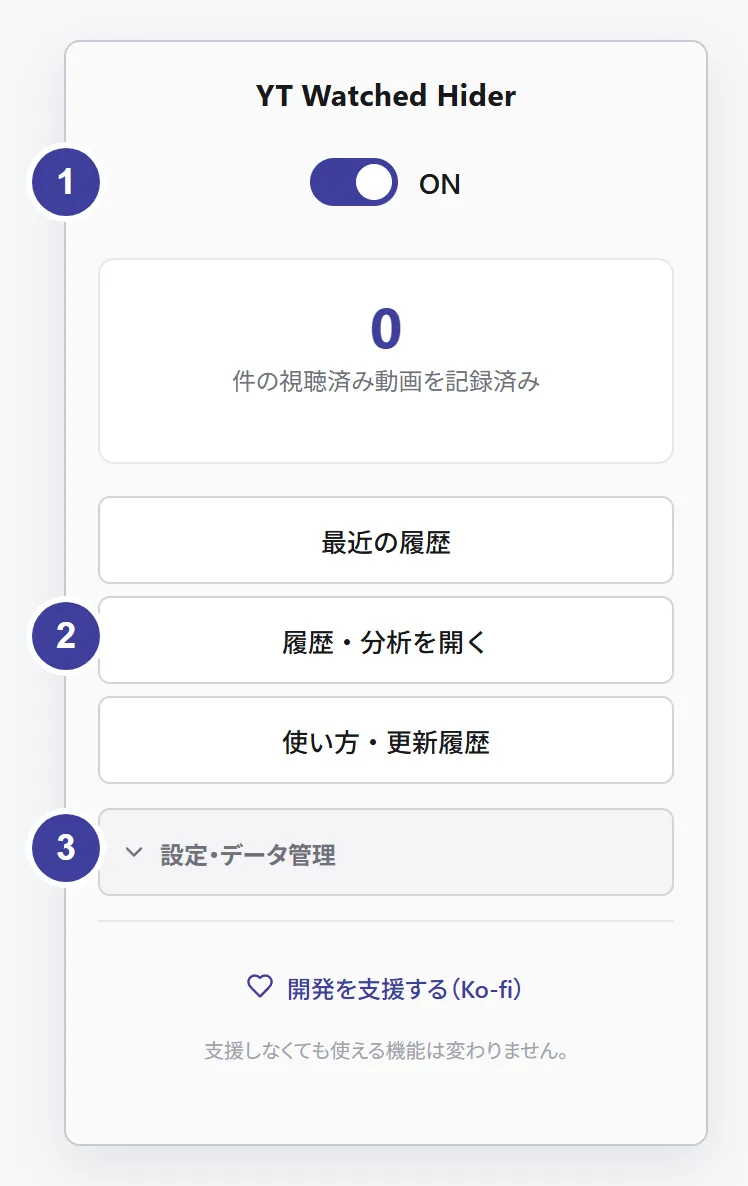
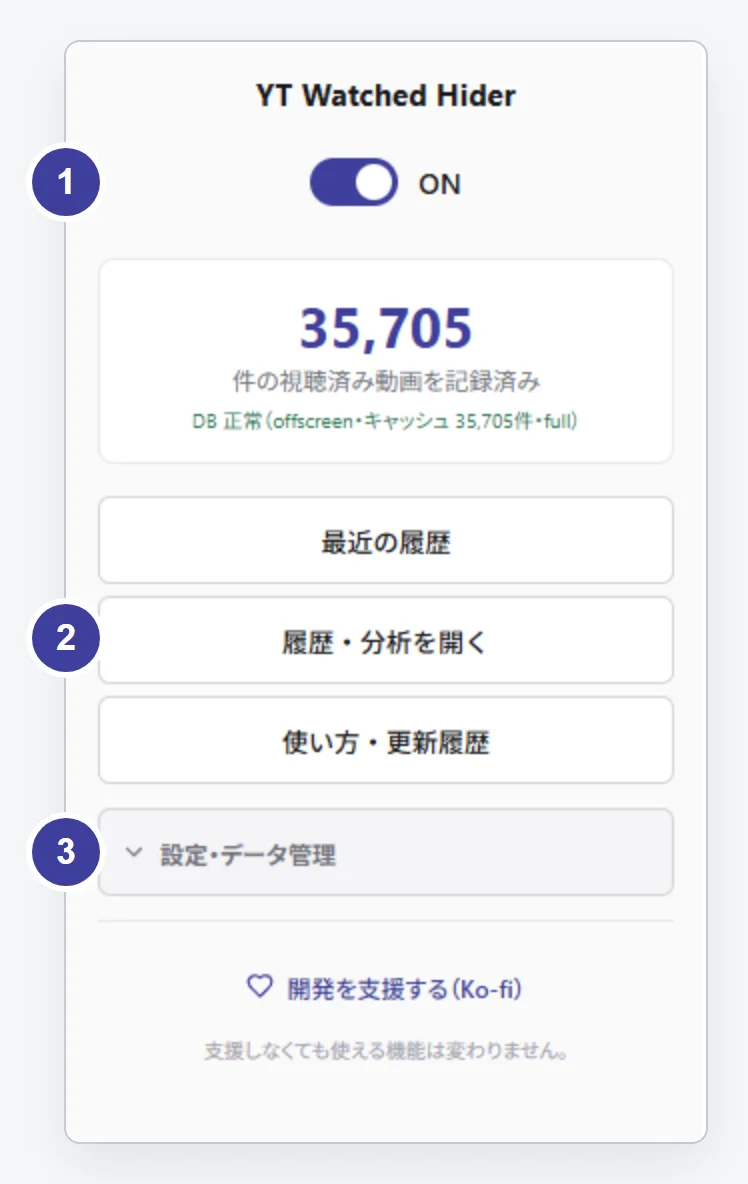
Add share cards and use a real popup in the Japanese guide
Open Graph and X card tags (1200x630 images per language) plus canonical
links on the top and guide pages. The Japanese guide now shows the
author's actual popup instead of an empty first-run state.

diff --git a/docs/guide.html b/docs/guide.html
@@ -4,7 +4,8 @@
   <meta charset="UTF-8">
   <meta name="viewport" content="width=device-width, initial-scale=1">
   <meta name="description" content="YouTube Watched Hider の導入と基本の使い方。対象画面、視聴済みの判定と95％設定、非表示の切り替え、履歴・分析、JSONバックアップを案内します。">
-  <title>基本の使い方 — YouTube Watched Hider</title>
+  <meta property="og:type" content="website"/><meta property="og:site_name" content="YouTube Watched Hider"/><meta property="og:title" content="基本の使い方 — YouTube Watched Hider"/><meta property="og:description" content="導入、表示の切り替え、履歴・分析、バックアップの基本操作。"/><meta property="og:url" content="https://sasakisrole.github.io/youtube-watched-hider/guide.html"/><meta property="og:image" content="https://sasakisrole.github.io/youtube-watched-hider/assets/og-ja.jpg"/><meta property="og:image:width" content="1200"/><meta property="og:image:height" content="630"/><meta property="og:image:alt" content="観た動画を隠して、次を探す。YouTube Watched Hider"/><meta property="og:locale" content="ja_JP"/><meta name="twitter:card" content="summary_large_image"/><link rel="canonical" href="https://sasakisrole.github.io/youtube-watched-hider/guide.html"/>
+<title>基本の使い方 — YouTube Watched Hider</title>
   <link rel="icon" href="icon128.png" type="image/png">
   <link rel="stylesheet" href="site.css">
 </head>
@@ -15,7 +16,7 @@
     <header class="guide-header"><p class="eyebrow">YouTube Watched Hider</p><h1>基本の使い方</h1><p>拡張内の「使い方・更新履歴」をもとに、<br class="wide-break">はじめて使うときの操作をまとめました。</p></header>
     <nav class="guide-nav" aria-label="使い方の目次"><a href="#first-use">導入する</a><a href="#visibility">表示を調整する</a><a href="#history">履歴・分析</a><a href="#backup">バックアップ</a><a href="#in-extension">拡張内のガイド</a></nav>
     <section id="first-use" class="guide-section"><h2>1. 導入して、YouTube を開く</h2><ol><li>パソコンの Chrome で、下のリンクから Chrome ウェブストアを開きます。</li><li>拡張名が <span class="ui-name">YouTube Watched Hider</span>、提供元が <span class="ui-name">sasaki.s.role</span> であることと、表示される権限を確認して追加します。</li><li>YouTube を開きます。すでに開いていたページは再読み込みしてください。</li><li>通常どおり動画を見ます。拡張が視聴済みと判定・記録した動画が、次の一覧から隠れます。</li></ol><figure class="guide-figure"><img src="assets/guide-compare.webp" width="720" height="361" alt="YWH なしでは視聴済み3本を含む6本が並び、YWH ありでは視聴済みの3本が隠れて残りの3本が同じ順番で並ぶ比較図。" loading="lazy"><figcaption><span>視聴済みの3本が隠れ、残りは同じ順番のまま並びます（説明用の合成画像）。</span></figcaption></figure><a class="button primary" href="https://chromewebstore.google.com/detail/youtube-watched-hider/bfanjfgoedconkhkkjhfclhimlgiamkh">Chrome ウェブストアで見る <span aria-hidden="true">↗</span></a><p class="guide-note">過去の全視聴履歴を自動で揃えるものではありません。まずは導入後の視聴で、表示の変化を確認してください。</p></section>
-    <section id="visibility" class="guide-section"><h2>2. 隠し方を、自分に合わせる</h2><p>Chrome の拡張機能メニュー（パズルのアイコン）から YWH のアイコンを押すと、操作画面が開きます。よく使うので、ツールバーに固定しておくと便利です。</p><figure class="guide-figure"><img src="assets/guide-pin.webp" width="560" height="365" alt="Chrome のツールバーでパズルのアイコンを押し、拡張機能の一覧で YouTube Watched Hider のピンを押すと、YWH のアイコンがツールバーに固定される説明図。" loading="lazy"><figcaption><ol class="figure-steps"><li>パズルのアイコンを押す</li><li>YouTube Watched Hider の横のピンを押す</li><li>ツールバーに YWH のアイコンが常に表示される</li></ol><span>Chrome の画面を模した説明図です。</span></figcaption></figure><figure class="guide-figure guide-figure-side"><img src="assets/guide-popup.webp" width="374" height="593" alt="YWH の操作画面。上から ON スイッチ、記録件数、最近の履歴、履歴・分析を開く、使い方・更新履歴、設定・データ管理。" loading="lazy"><figcaption><ol class="figure-steps"><li>上部のスイッチ：非表示の ON / OFF</li><li>「履歴・分析を開く」：履歴の検索と音楽の分析</li><li>「設定・データ管理」：ページ別の非表示、半透明表示、バックアップ</li></ol><span>公開版 v1.60.79 の実際の画面（初めて開いた状態。診断用の表示は省略）。</span></figcaption></figure><h3>隠した動画も表示したい</h3><p>上部の <span class="ui-name">ON / OFF</span> で非表示を切り替えます。隠れた動画そのものを YouTube から削除する操作ではありません。</p><h3>検索結果だけは隠したくない</h3><p><span class="ui-name">設定・データ管理 → ページ別の非表示 → 検索結果で隠す</span> を OFF にします。ホーム、登録チャンネルの新着一覧、各チャンネルページ、プレイリストのページ、検索結果、関連動画の6か所を個別に設定できます。</p><h3>消す代わりに、薄く表示したい</h3><p><span class="ui-name">設定・データ管理 → 視聴済みを半透明で表示する</span> を ON にします。</p><h3>視聴済みは、どう判定する？</h3><p>再生が終わった動画や、YouTube の一覧で視聴済みと検出した動画を記録します。一覧の進捗バーを判定する割合は、<span class="ui-name">設定・データ管理 → 視聴済みとみなす％</span> で1〜100％から選べます。既定は95％です。</p><p>これは実視聴時間の計測ではありません。値を変えても、すでに登録された視聴記録は変わりません。</p></section>
+    <section id="visibility" class="guide-section"><h2>2. 隠し方を、自分に合わせる</h2><p>Chrome の拡張機能メニュー（パズルのアイコン）から YWH のアイコンを押すと、操作画面が開きます。よく使うので、ツールバーに固定しておくと便利です。</p><figure class="guide-figure"><img src="assets/guide-pin.webp" width="560" height="365" alt="Chrome のツールバーでパズルのアイコンを押し、拡張機能の一覧で YouTube Watched Hider のピンを押すと、YWH のアイコンがツールバーに固定される説明図。" loading="lazy"><figcaption><ol class="figure-steps"><li>パズルのアイコンを押す</li><li>YouTube Watched Hider の横のピンを押す</li><li>ツールバーに YWH のアイコンが常に表示される</li></ol><span>Chrome の画面を模した説明図です。</span></figcaption></figure><figure class="guide-figure guide-figure-side"><img src="assets/guide-popup.webp" width="374" height="592" alt="YWH の操作画面。上から ON スイッチ、記録件数、最近の履歴、履歴・分析を開く、使い方・更新履歴、設定・データ管理。" loading="lazy"><figcaption><ol class="figure-steps"><li>上部のスイッチ：非表示の ON / OFF</li><li>「履歴・分析を開く」：履歴の検索と音楽の分析</li><li>「設定・データ管理」：ページ別の非表示、半透明表示、バックアップ</li></ol><span>実際の画面（作者の環境。記録は 35,705 件）。</span></figcaption></figure><h3>隠した動画も表示したい</h3><p>上部の <span class="ui-name">ON / OFF</span> で非表示を切り替えます。隠れた動画そのものを YouTube から削除する操作ではありません。</p><h3>検索結果だけは隠したくない</h3><p><span class="ui-name">設定・データ管理 → ページ別の非表示 → 検索結果で隠す</span> を OFF にします。ホーム、登録チャンネルの新着一覧、各チャンネルページ、プレイリストのページ、検索結果、関連動画の6か所を個別に設定できます。</p><h3>消す代わりに、薄く表示したい</h3><p><span class="ui-name">設定・データ管理 → 視聴済みを半透明で表示する</span> を ON にします。</p><h3>視聴済みは、どう判定する？</h3><p>再生が終わった動画や、YouTube の一覧で視聴済みと検出した動画を記録します。一覧の進捗バーを判定する割合は、<span class="ui-name">設定・データ管理 → 視聴済みとみなす％</span> で1〜100％から選べます。既定は95％です。</p><p>これは実視聴時間の計測ではありません。値を変えても、すでに登録された視聴記録は変わりません。</p></section>
     <section id="history" class="guide-section"><h2>3. 履歴や音楽の傾向を振り返る</h2><p>拡張アイコンから <span class="ui-name">履歴・分析を開く</span> を押します。記録した動画の一覧・検索や、音楽の傾向分析を利用できます。</p><p>Topic チャンネルの履歴からアーティスト別のランキングを表示するほか、チャンネルやキーワードを手がかりに振り返れます。</p><p class="guide-note">分析の「合計時間」は動画の長さの合計です。途中で視聴をやめた時間、倍速、リピートを反映した実視聴時間ではありません。</p></section>
     <section id="backup" class="guide-section"><h2>4. 必要な履歴を、手元に残す</h2><p>拡張アイコンの <span class="ui-name">設定・データ管理 → 今すぐバックアップ</span> から、データを JSON ファイルに書き出せます。復元するときは <span class="ui-name">バックアップを復元</span> からファイルを選びます。</p><p>復元方法には置換と統合があります。置換では、バックアップ時点にない記録が失われるため、画面に出る件数と復元方法を確認してください。</p><p class="guide-note">拡張を削除すると、ブラウザ内の履歴も削除されます。残したい場合は先にバックアップしてください。ダウンロード済みの JSON バックアップは削除されないため、別途管理してください。</p></section>
     <section id="in-extension" class="guide-section"><h2>続きは、拡張内のガイドへ</h2><p><span class="ui-name">YWH の拡張アイコン → 使い方・更新履歴</span> を開くと、導入した版の操作案内と更新情報を読めます。</p><p>このページは公開版 v1.60.79 の基本操作に絞った案内です。表示言語や導入した版によって、文言や配置が異なる場合があります。</p><a href="https://github.com/sasakisrole/youtube-watched-hider/issues">困ったときは不具合を報告する <span aria-hidden="true">↗</span></a></section>

diff --git a/docs/index.html b/docs/index.html
@@ -4,6 +4,7 @@
 <meta name="google-site-verification" content="C7-VNuTUaejKp6xHnkt4q2lXd0p3dzuXHCmqP84RZns"/>
 <meta content="パソコンの YouTube で観た動画を一覧から隠す、無料の Chrome 拡張機能。表示の例、使い方、視聴済みの判定、履歴の保存先と外部通信を紹介します。" name="description"/>
 <meta content="#f6f7f9" media="(prefers-color-scheme: light)" name="theme-color"/><meta content="#20292d" media="(prefers-color-scheme: dark)" name="theme-color"/>
+<meta property="og:type" content="website"/><meta property="og:site_name" content="YouTube Watched Hider"/><meta property="og:title" content="YouTube Watched Hider — 観た動画を隠す無料の Chrome 拡張機能"/><meta property="og:description" content="パソコンの YouTube で観た動画を一覧から隠す、無料の Chrome 拡張機能。"/><meta property="og:url" content="https://sasakisrole.github.io/youtube-watched-hider/"/><meta property="og:image" content="https://sasakisrole.github.io/youtube-watched-hider/assets/og-ja.jpg"/><meta property="og:image:width" content="1200"/><meta property="og:image:height" content="630"/><meta property="og:image:alt" content="観た動画を隠して、次を探す。YouTube Watched Hider"/><meta property="og:locale" content="ja_JP"/><meta name="twitter:card" content="summary_large_image"/><link rel="canonical" href="https://sasakisrole.github.io/youtube-watched-hider/"/>
 <title>YouTube Watched Hider — 観た動画を隠す無料の Chrome 拡張機能</title>
 <link href="icon128.png" rel="icon" type="image/png"/>
 <link href="en/index.html" hreflang="en" rel="alternate"/>

diff --git a/docs/en/index.html b/docs/en/index.html
@@ -3,6 +3,7 @@
 <meta content="width=device-width, initial-scale=1" name="viewport"/>
 <meta content="Hide watched videos from YouTube lists with a free Chrome extension for desktop. See an example and learn how recording, history, privacy and setup work." name="description"/>
 <meta content="#f6f7f9" media="(prefers-color-scheme: light)" name="theme-color"/><meta content="#20292d" media="(prefers-color-scheme: dark)" name="theme-color"/>
+<meta property="og:type" content="website"/><meta property="og:site_name" content="YouTube Watched Hider"/><meta property="og:title" content="YouTube Watched Hider — Hide watched videos in Chrome"/><meta property="og:description" content="A free Chrome extension that hides watched videos from YouTube lists on desktop."/><meta property="og:url" content="https://sasakisrole.github.io/youtube-watched-hider/en/index.html"/><meta property="og:image" content="https://sasakisrole.github.io/youtube-watched-hider/assets/og-en.jpg"/><meta property="og:image:width" content="1200"/><meta property="og:image:height" content="630"/><meta property="og:image:alt" content="Hide watched videos. Find your next watch. YouTube Watched Hider"/><meta property="og:locale" content="en_US"/><meta name="twitter:card" content="summary_large_image"/><link rel="canonical" href="https://sasakisrole.github.io/youtube-watched-hider/en/index.html"/>
 <title>YouTube Watched Hider — Hide watched videos in Chrome</title>
 <link href="../icon128.png" rel="icon" type="image/png"/>
 <link href="../index.html" hreflang="ja" rel="alternate"/>

diff --git a/docs/en/guide.html b/docs/en/guide.html
@@ -3,7 +3,8 @@
 <head>
   <meta charset="UTF-8"><meta name="viewport" content="width=device-width, initial-scale=1">
   <meta name="description" content="Set up YouTube Watched Hider in Chrome. Learn where it hides videos, how the watched threshold works, and how to use history, analytics and JSON backups.">
-  <title>Getting started — YouTube Watched Hider</title>
+  <meta property="og:type" content="website"/><meta property="og:site_name" content="YouTube Watched Hider"/><meta property="og:title" content="Getting started — YouTube Watched Hider"/><meta property="og:description" content="First steps: install, toggle hiding, history and analytics, backups."/><meta property="og:url" content="https://sasakisrole.github.io/youtube-watched-hider/en/guide.html"/><meta property="og:image" content="https://sasakisrole.github.io/youtube-watched-hider/assets/og-en.jpg"/><meta property="og:image:width" content="1200"/><meta property="og:image:height" content="630"/><meta property="og:image:alt" content="Hide watched videos. Find your next watch. YouTube Watched Hider"/><meta property="og:locale" content="en_US"/><meta name="twitter:card" content="summary_large_image"/><link rel="canonical" href="https://sasakisrole.github.io/youtube-watched-hider/en/guide.html"/>
+<title>Getting started — YouTube Watched Hider</title>
   <link rel="icon" href="../icon128.png" type="image/png"><link rel="stylesheet" href="../site.css">
 </head>
 <body>
